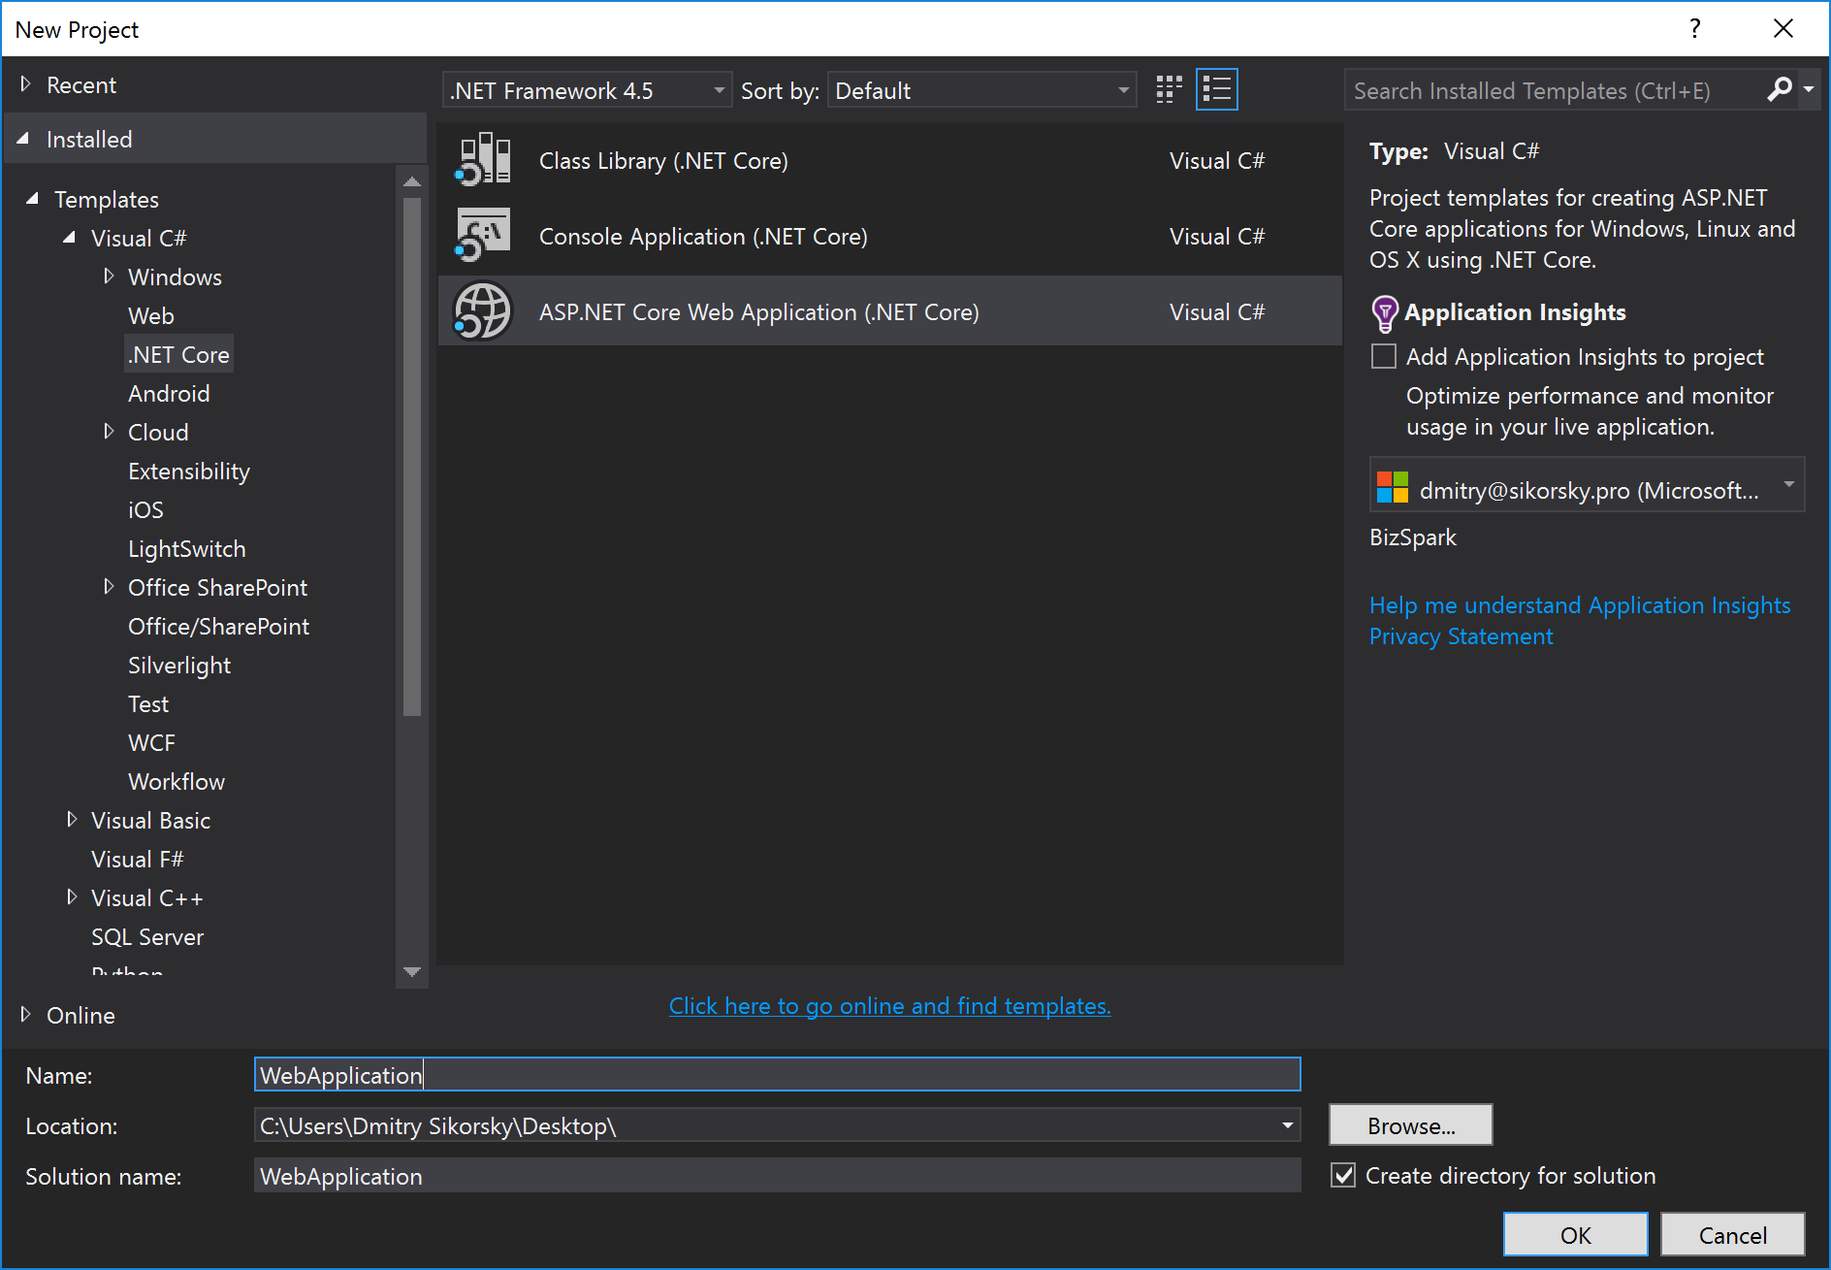
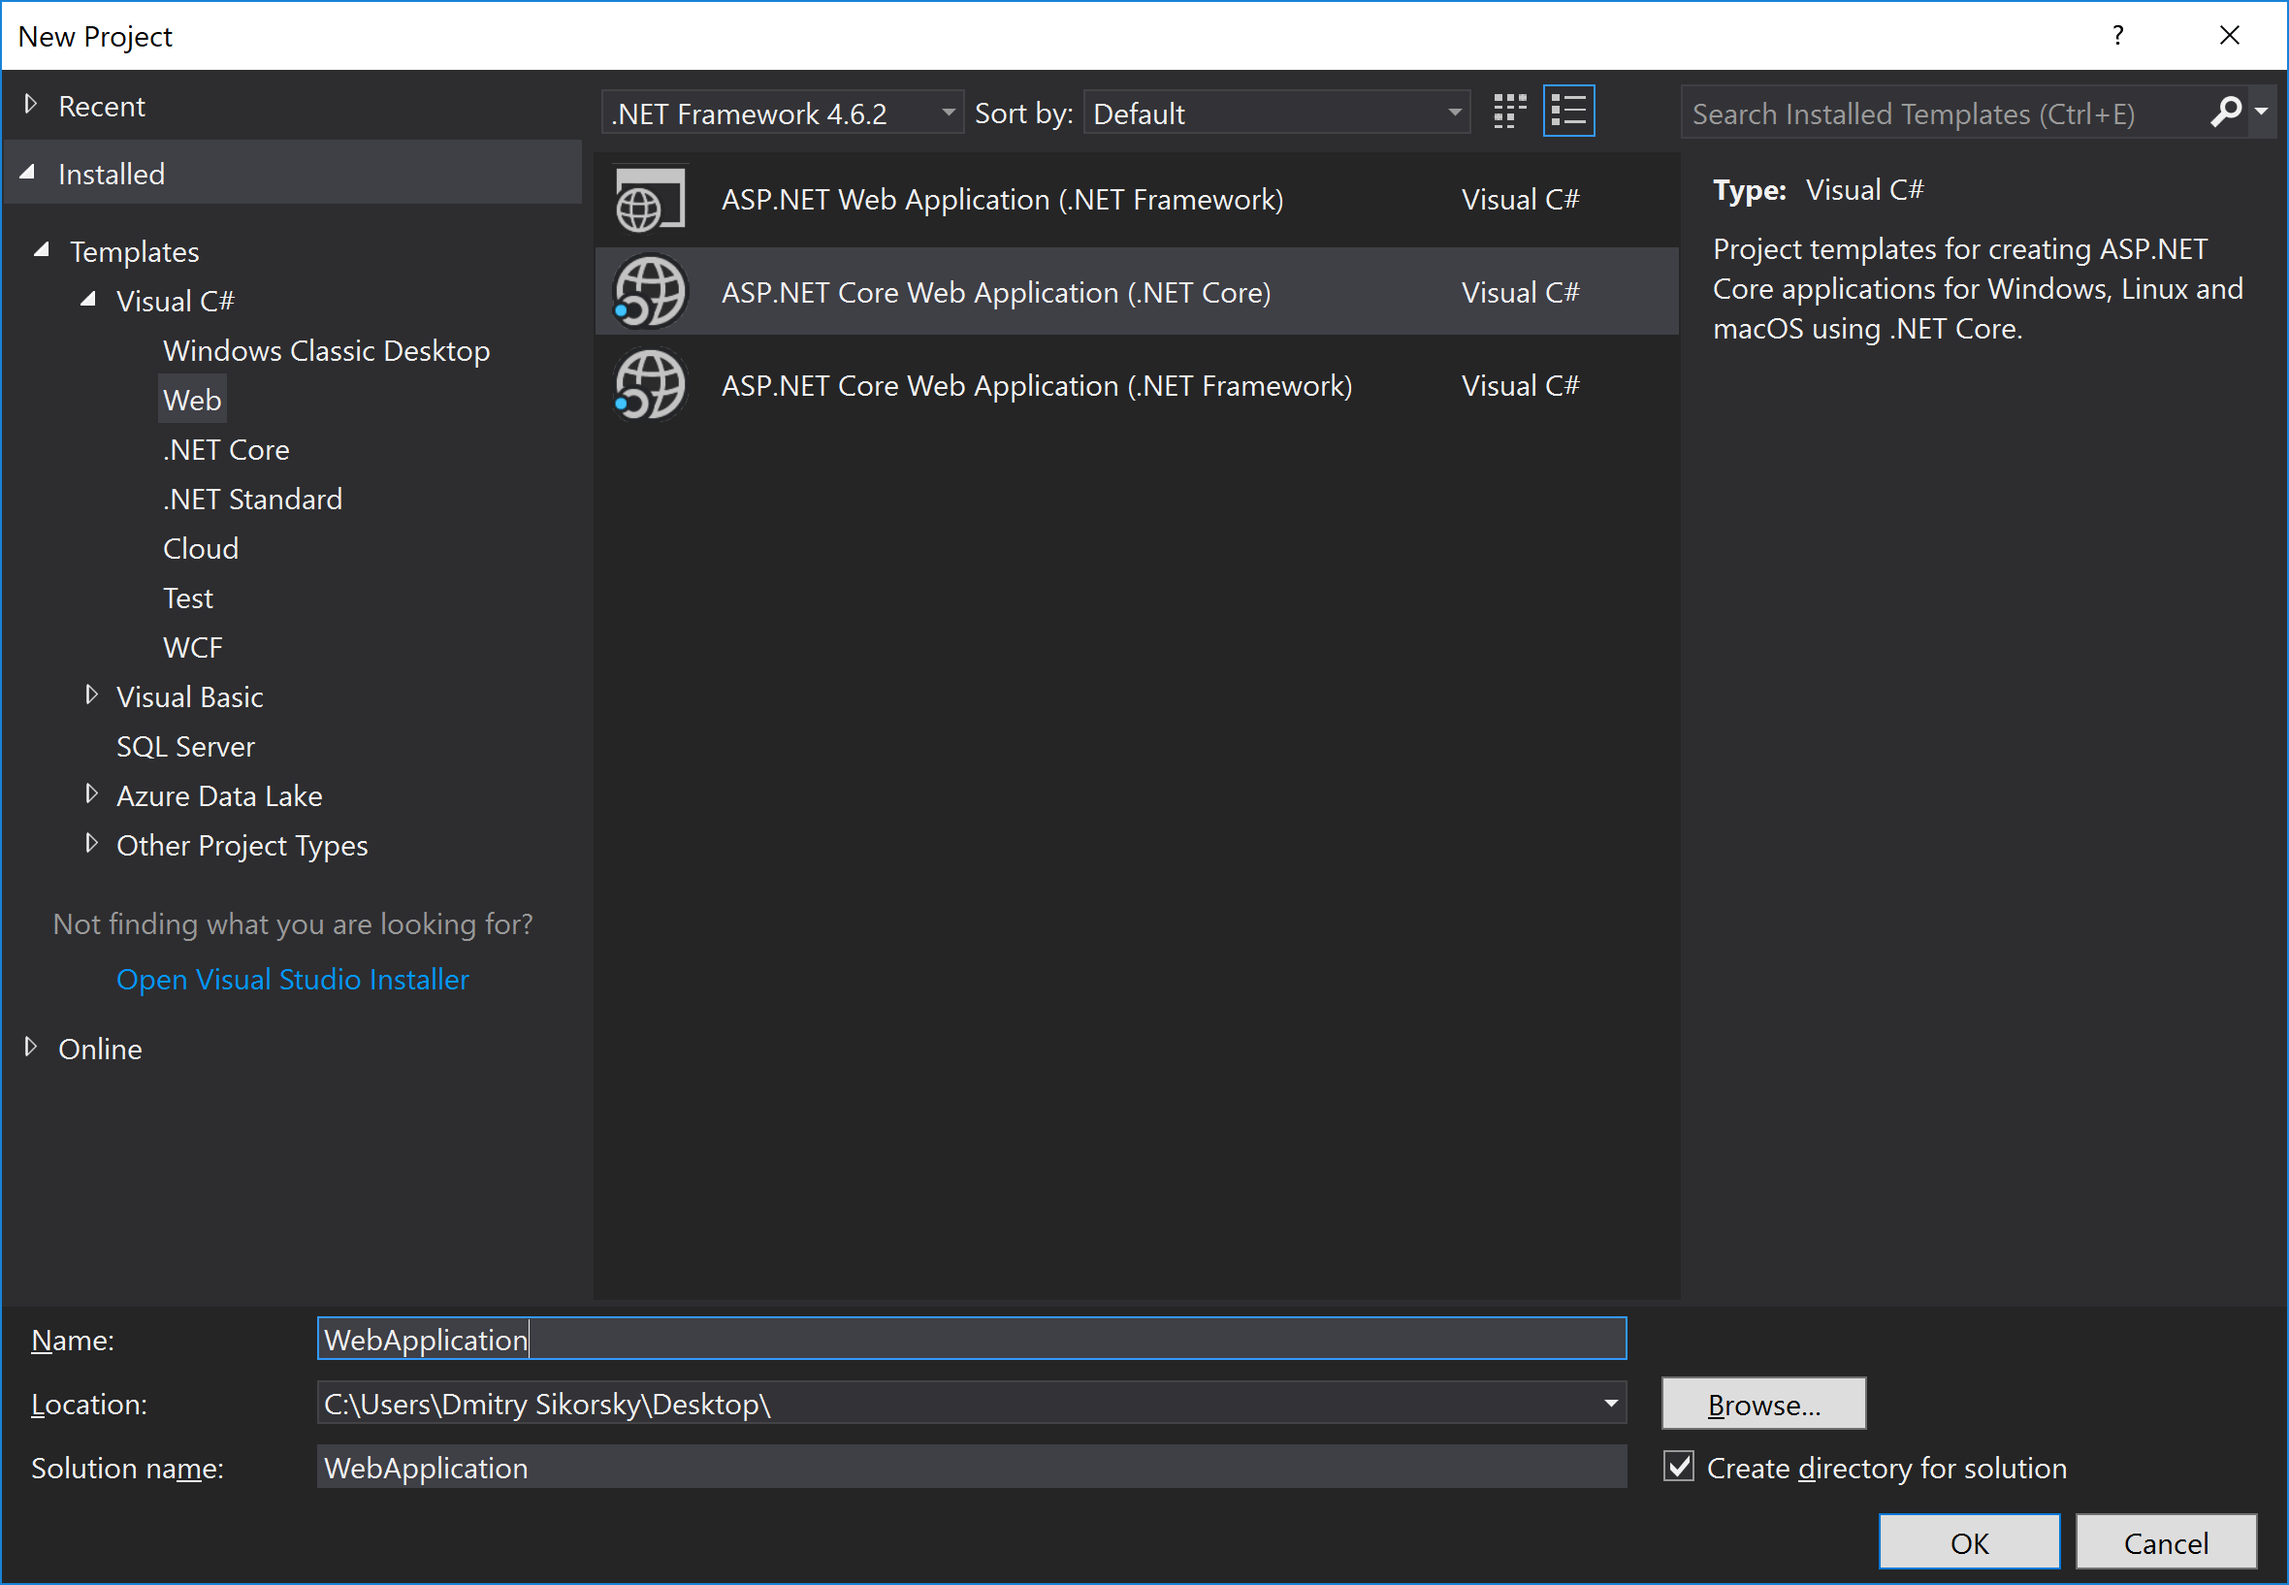
Updated tutorial

diff --git a/getting_started/tutorial_simple.rst b/getting_started/tutorial_simple.rst
@@ -16,26 +16,22 @@ Now let’s start Visual Studio and create new ASP.NET Core project:
 
 Empty project is created.
 
-Open project.json file and add dependencies on ExtCore.WebApplication version 1.1.0 and on
-Microsoft.Extensions.Configuration.Json version 1.1.0. After that ``dependencies`` section of your
-project.json file should look like this:
+Right click on your project in the Solution Explorer and open NuGet Package Manager. Switch to Browse tab and type
+ExtCore.WebApplication in the Search field (be sure that Include prerelease checkbox is checked).
+Click Install button:
 
-.. code-block:: js
-    :emphasize-lines: 2,5
+.. image:: /images/tutorial_simple/3.png
 
-    "dependencies": {
-      "ExtCore.WebApplication": "1.1.0",
-      "Microsoft.AspNetCore.Server.IISIntegration": "1.1.0",
-      "Microsoft.AspNetCore.Server.Kestrel": "1.1.0",
-      "Microsoft.Extensions.Configuration.Json": "1.1.0",
-      "Microsoft.Extensions.Logging.Console": "1.1.0",
-      "Microsoft.NETCore.App": {
-        "version": "1.1.0",
-        "type": "platform"
-      }
-    }
+You can get the same result manually by opening the WebApplication.csproj file and adding next line into it:
 
-Create config.json file in the project root. We will use this file to provide configuration
+.. code-block:: xml
+    :emphasize-lines: 2
+
+    <ItemGroup>
+      <PackageReference Include="ExtCore.WebApplication" Version="2.0.0-alpha1" />
+    </ItemGroup>
+
+Create the appsettings.json file in the project root. We will use this file to provide configuration
 parameters to ExtCore (such as path of the extensions folder). Now it should contain only one
 parameter ``Extensions:Path`` and look like this:
 
@@ -49,66 +45,51 @@ parameter ``Extensions:Path`` and look like this:
       }
     }
 
-Open Startup.cs file and modify your ``Startup`` class as follows:
+Open Startup.cs file. Inside the ``ConfigureServices`` method call ``services.AddExtCore`` one. Pass the extensions
+path as the parameter. Inside the ``Configure`` method call ``applicationBuilder.UseExtCore`` one with no parameters.
 
-* inherit it from ``ExtCore.WebApplication.Startup`` class;
-* add constructor with ``IServiceProvider`` parameter and pass this parameter to the constructor of the parent class;
-* initialize ``configurationRoot`` field of the parent class in the constructor;
-* override ``ConfigureServices`` and ``Configure`` methods and add calls of parent class ones.
-
-Now your Startup class should look like this:
+Now your ``Startup`` class should look like this:
 
 .. code-block:: c#
 
-    public class Startup : ExtCore.WebApplication.Startup
+    public class Startup
     {
-      public Startup(IServiceProvider serviceProvider)
-        : base (serviceProvider)
-      {
-        this.serviceProvider.GetService<ILoggerFactory>().AddConsole();
+      private string extensionsPath;
 
+      public Startup(IHostingEnvironment hostingEnvironment, ILoggerFactory loggerFactory)
+      {
         IConfigurationBuilder configurationBuilder = new ConfigurationBuilder()
-          .SetBasePath(this.serviceProvider.GetService<IHostingEnvironment>().ContentRootPath)
-          .AddJsonFile("config.json", optional: true, reloadOnChange: true);
+          .SetBasePath(hostingEnvironment.ContentRootPath)
+          .AddJsonFile("appsettings.json", optional: true, reloadOnChange: true);
 
-        this.configurationRoot = configurationBuilder.Build();
+        IConfigurationRoot configurationRoot = configurationBuilder.Build();
+
+        this.extensionsPath = hostingEnvironment.ContentRootPath + configurationRoot["Extensions:Path"];
       }
 
-      public override void ConfigureServices(IServiceCollection services)
+      public void ConfigureServices(IServiceCollection services)
       {
-        base.ConfigureServices(services);
+        services.AddExtCore(this.extensionsPath);
       }
 
-      public override void Configure(IApplicationBuilder applicationBuilder)
+      public void Configure(IApplicationBuilder applicationBuilder)
       {
-        base.Configure(applicationBuilder);
-        applicationBuilder.Run(async (context) =>
-        {
-          await context.Response.WriteAsync("Hello World!");
-        });
+        applicationBuilder.UseExtCore();
       }
     }
 
-That’s all, you now have ExtCore-based web application. Now we need to create some extension project to
-show how ExtCore types discovering works.
+That’s all, you now have ExtCore-based web application.
+
+Now we need to create some extension project to show how ExtCore types discovering works.
 
 Create Extension
 ----------------
 
 Create new .NET Core class library project:
 
-.. image:: /images/tutorial_simple/3.png
+.. image:: /images/tutorial_simple/4.png
 
-Open project.json file and add dependency on ExtCore.Infrastructure version 1.1.0. After that
-``dependencies`` section of your project.json file should look like this:
-
-.. code-block:: js
-    :emphasize-lines: 2
-
-    "dependencies": {
-      "ExtCore.Infrastructure": "1.1.0",
-      "NETStandard.Library": "1.6.1"
-    }
+Open NuGet Package Manager and add dependency on the ExtCore.Infrastructure package.
 
 Create ``Extension`` class and inherit it from ``ExtCore.Infrastructure.ExtensionBase``. Override
 ``Name`` property in this way:
@@ -130,32 +111,35 @@ Put it Together
 
 We have two options to make our extension available in main web application:
 
-* add direct dependency on ExtCoreExtension in project.json file of ExtCoreWebApplication;
-* put compiled ExtCoreExtension.dll file to extensions folder of the ExtCoreWebApplication that is configured in config.json file.
+* add direct dependency on Extension in the WebApplication;
+* put compiled Extension.dll file to extensions folder of the WebApplication that is configured in appsettings.json file.
 
-While the first option is too obvious let’s try the second one. Copy the ExtCoreExtension.dll file
-to the extensions folder of the ExtCoreWebApplication and modify ``Configure`` method of ``Startup`` class
+While the first option is too obvious let’s try the second one. Copy the Extension.dll file
+to the extensions folder of the WebApplication and modify ``Configure`` method of ``Startup`` class
 in next way:
 
 .. code-block:: c#
     :emphasize-lines: 6
 
-    public override void Configure(IApplicationBuilder applicationBuilder)
+    public void Configure(IApplicationBuilder applicationBuilder)
     {
-      base.Configure(applicationBuilder);
+      applicationBuilder.UseExtCore();
       applicationBuilder.Run(async (context) =>
       {
-        await context.Response.WriteAsync(ExtensionManager.Extensions.First().Name);
+        await context.Response.WriteAsync(ExtensionManager.GetInstance<IExtension>().Name);
       });
     }
 
+It will search for the implementation of the ``IExtension`` interface, create instance of found type,
+and write its ``Name`` property value on every request.
+
 If we run our web application we will have the following result:
 
-.. image:: /images/tutorial_simple/4.png
+.. image:: /images/tutorial_simple/5.png
 
 It may not look very impressive, but it’s only the beginning! In the next tutorials we will see
-how extensions may execute their own code in ``ConfigureServices`` and ``Configure`` methods, how
-to use MVC and how to work with storage.
+how extensions may execute their own code insite the ``ConfigureServices`` and ``Configure`` methods, how
+to use MVC and how to work with a storage.
 
 You can find the complete source of this sample project on GitHub: 
-`ExtCore Framework 1.1.0 Sample Web Application That Uses a Database <https://github.com/ExtCore/ExtCore-Sample-Data>`_.
+`ExtCore framework 2.0.0-alpha1 sample simplest web application <https://github.com/ExtCore/ExtCore-Sample-Simplest>`_.
